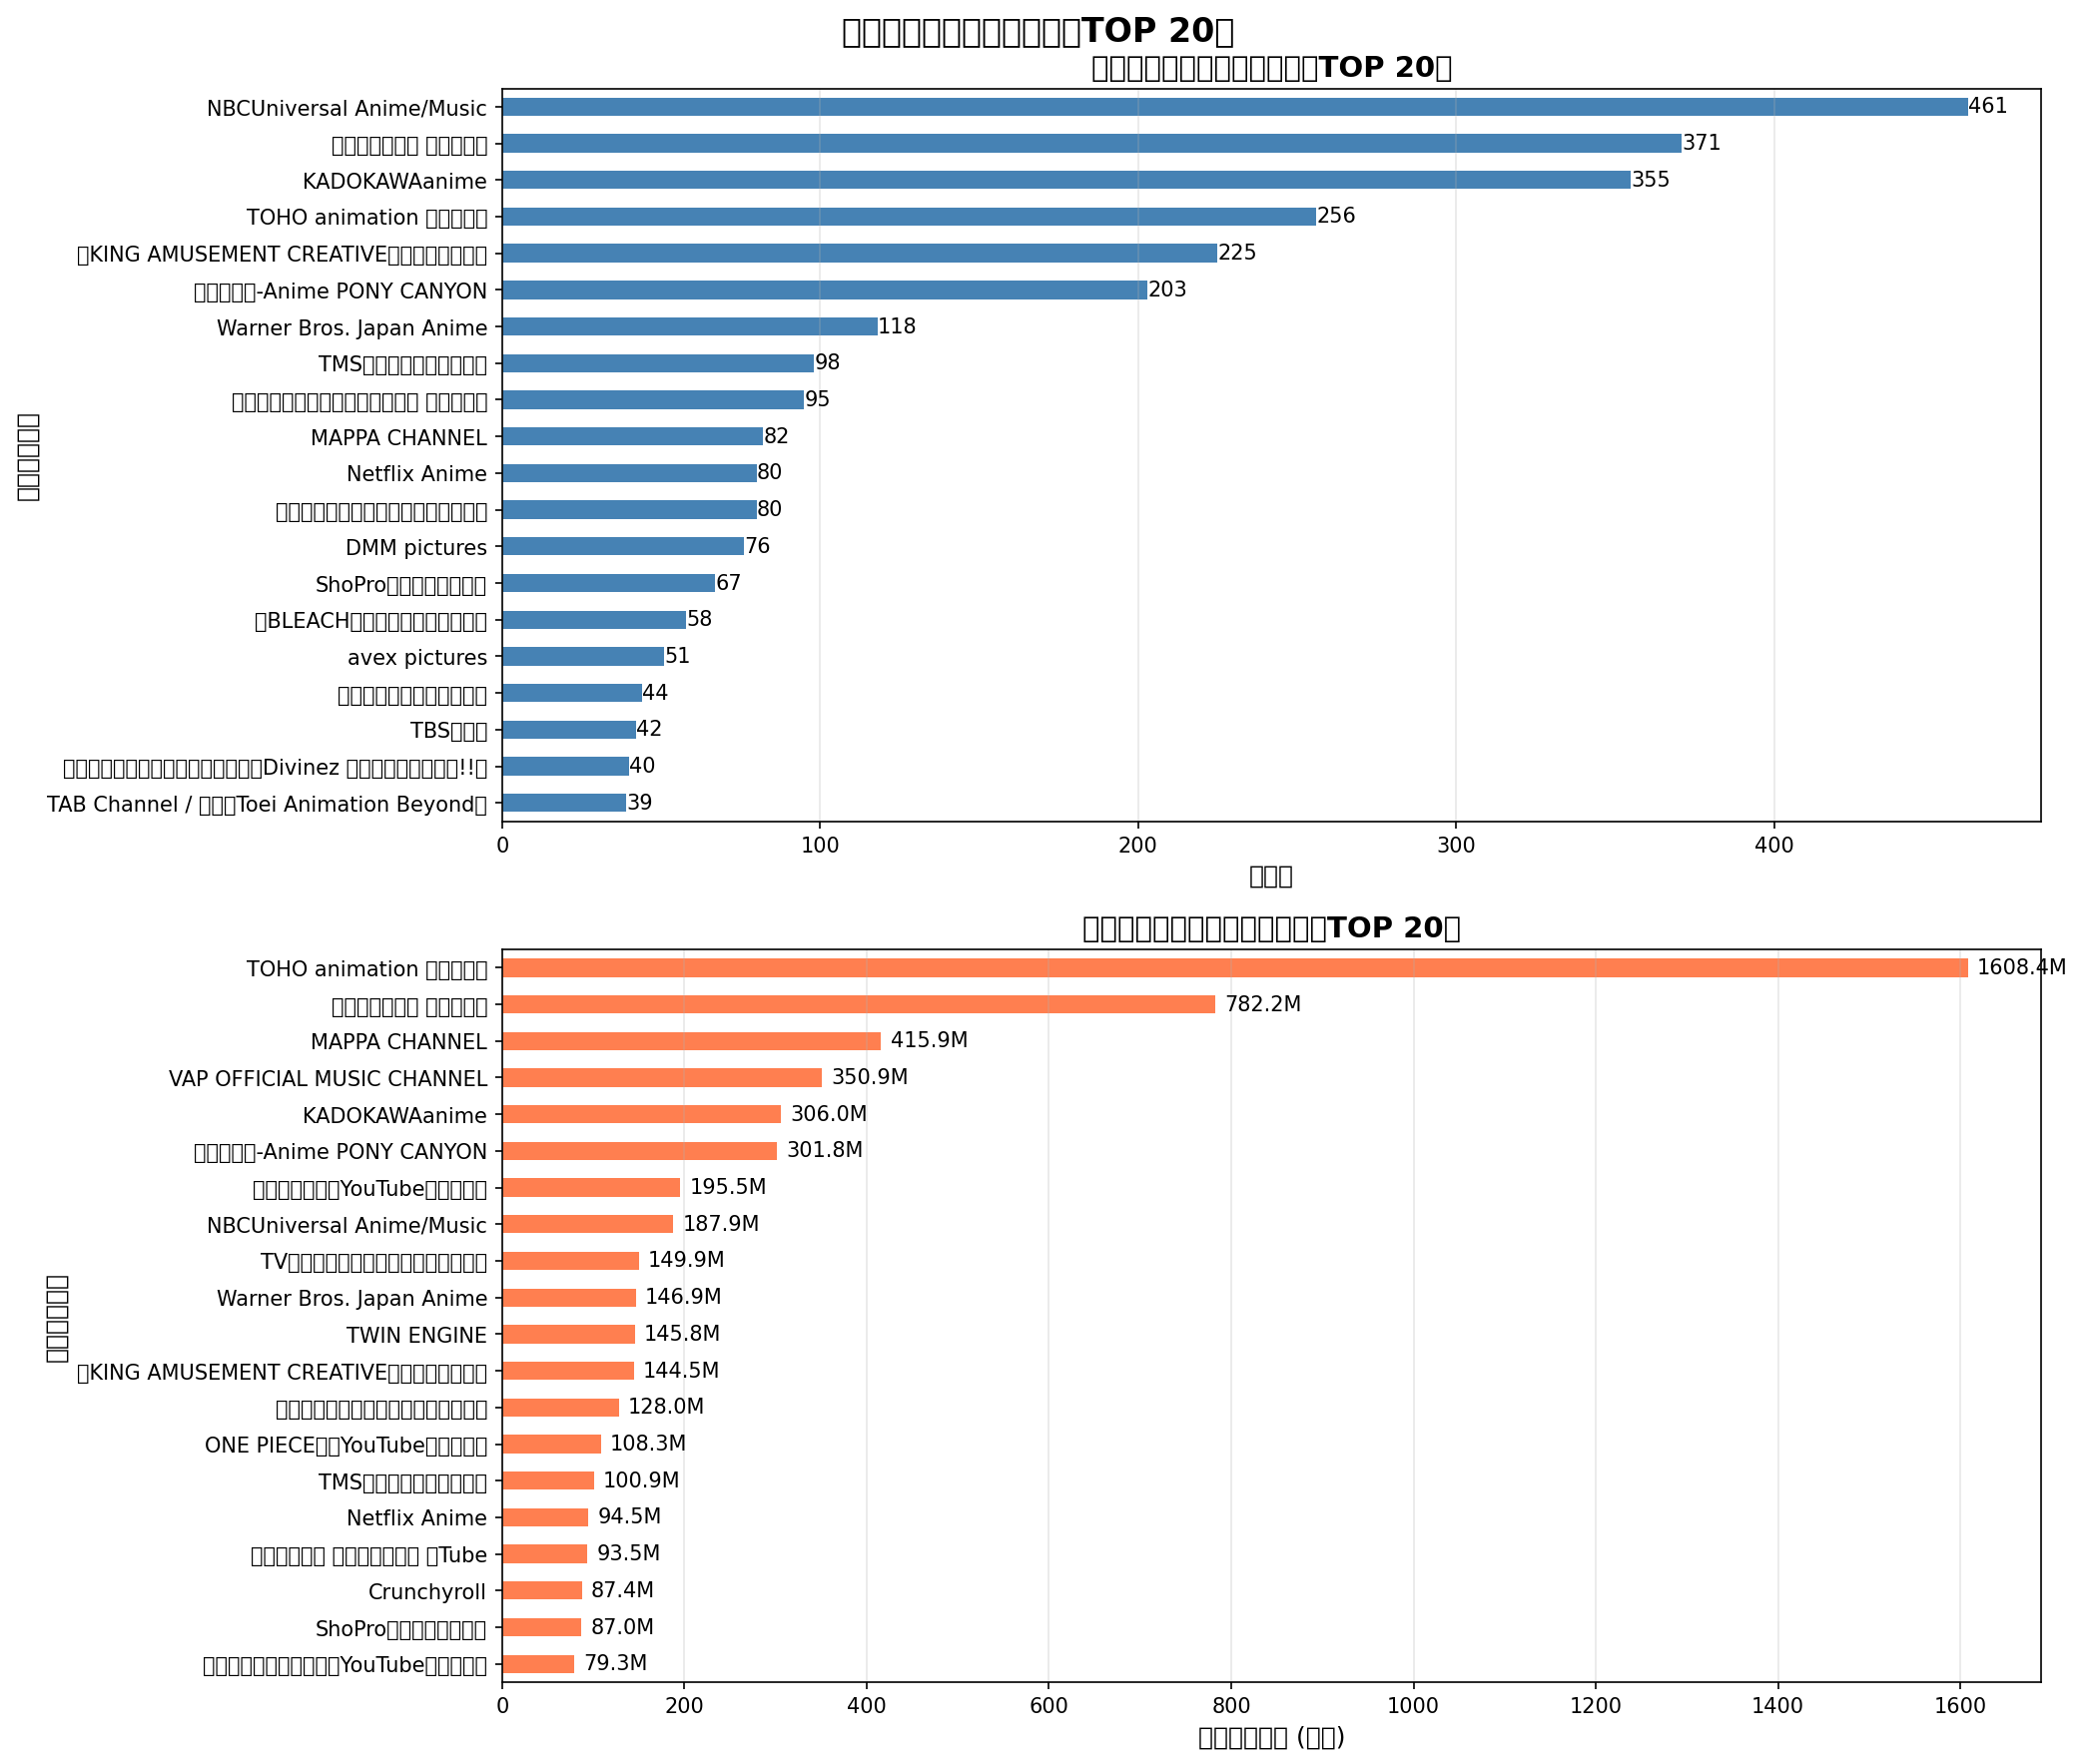
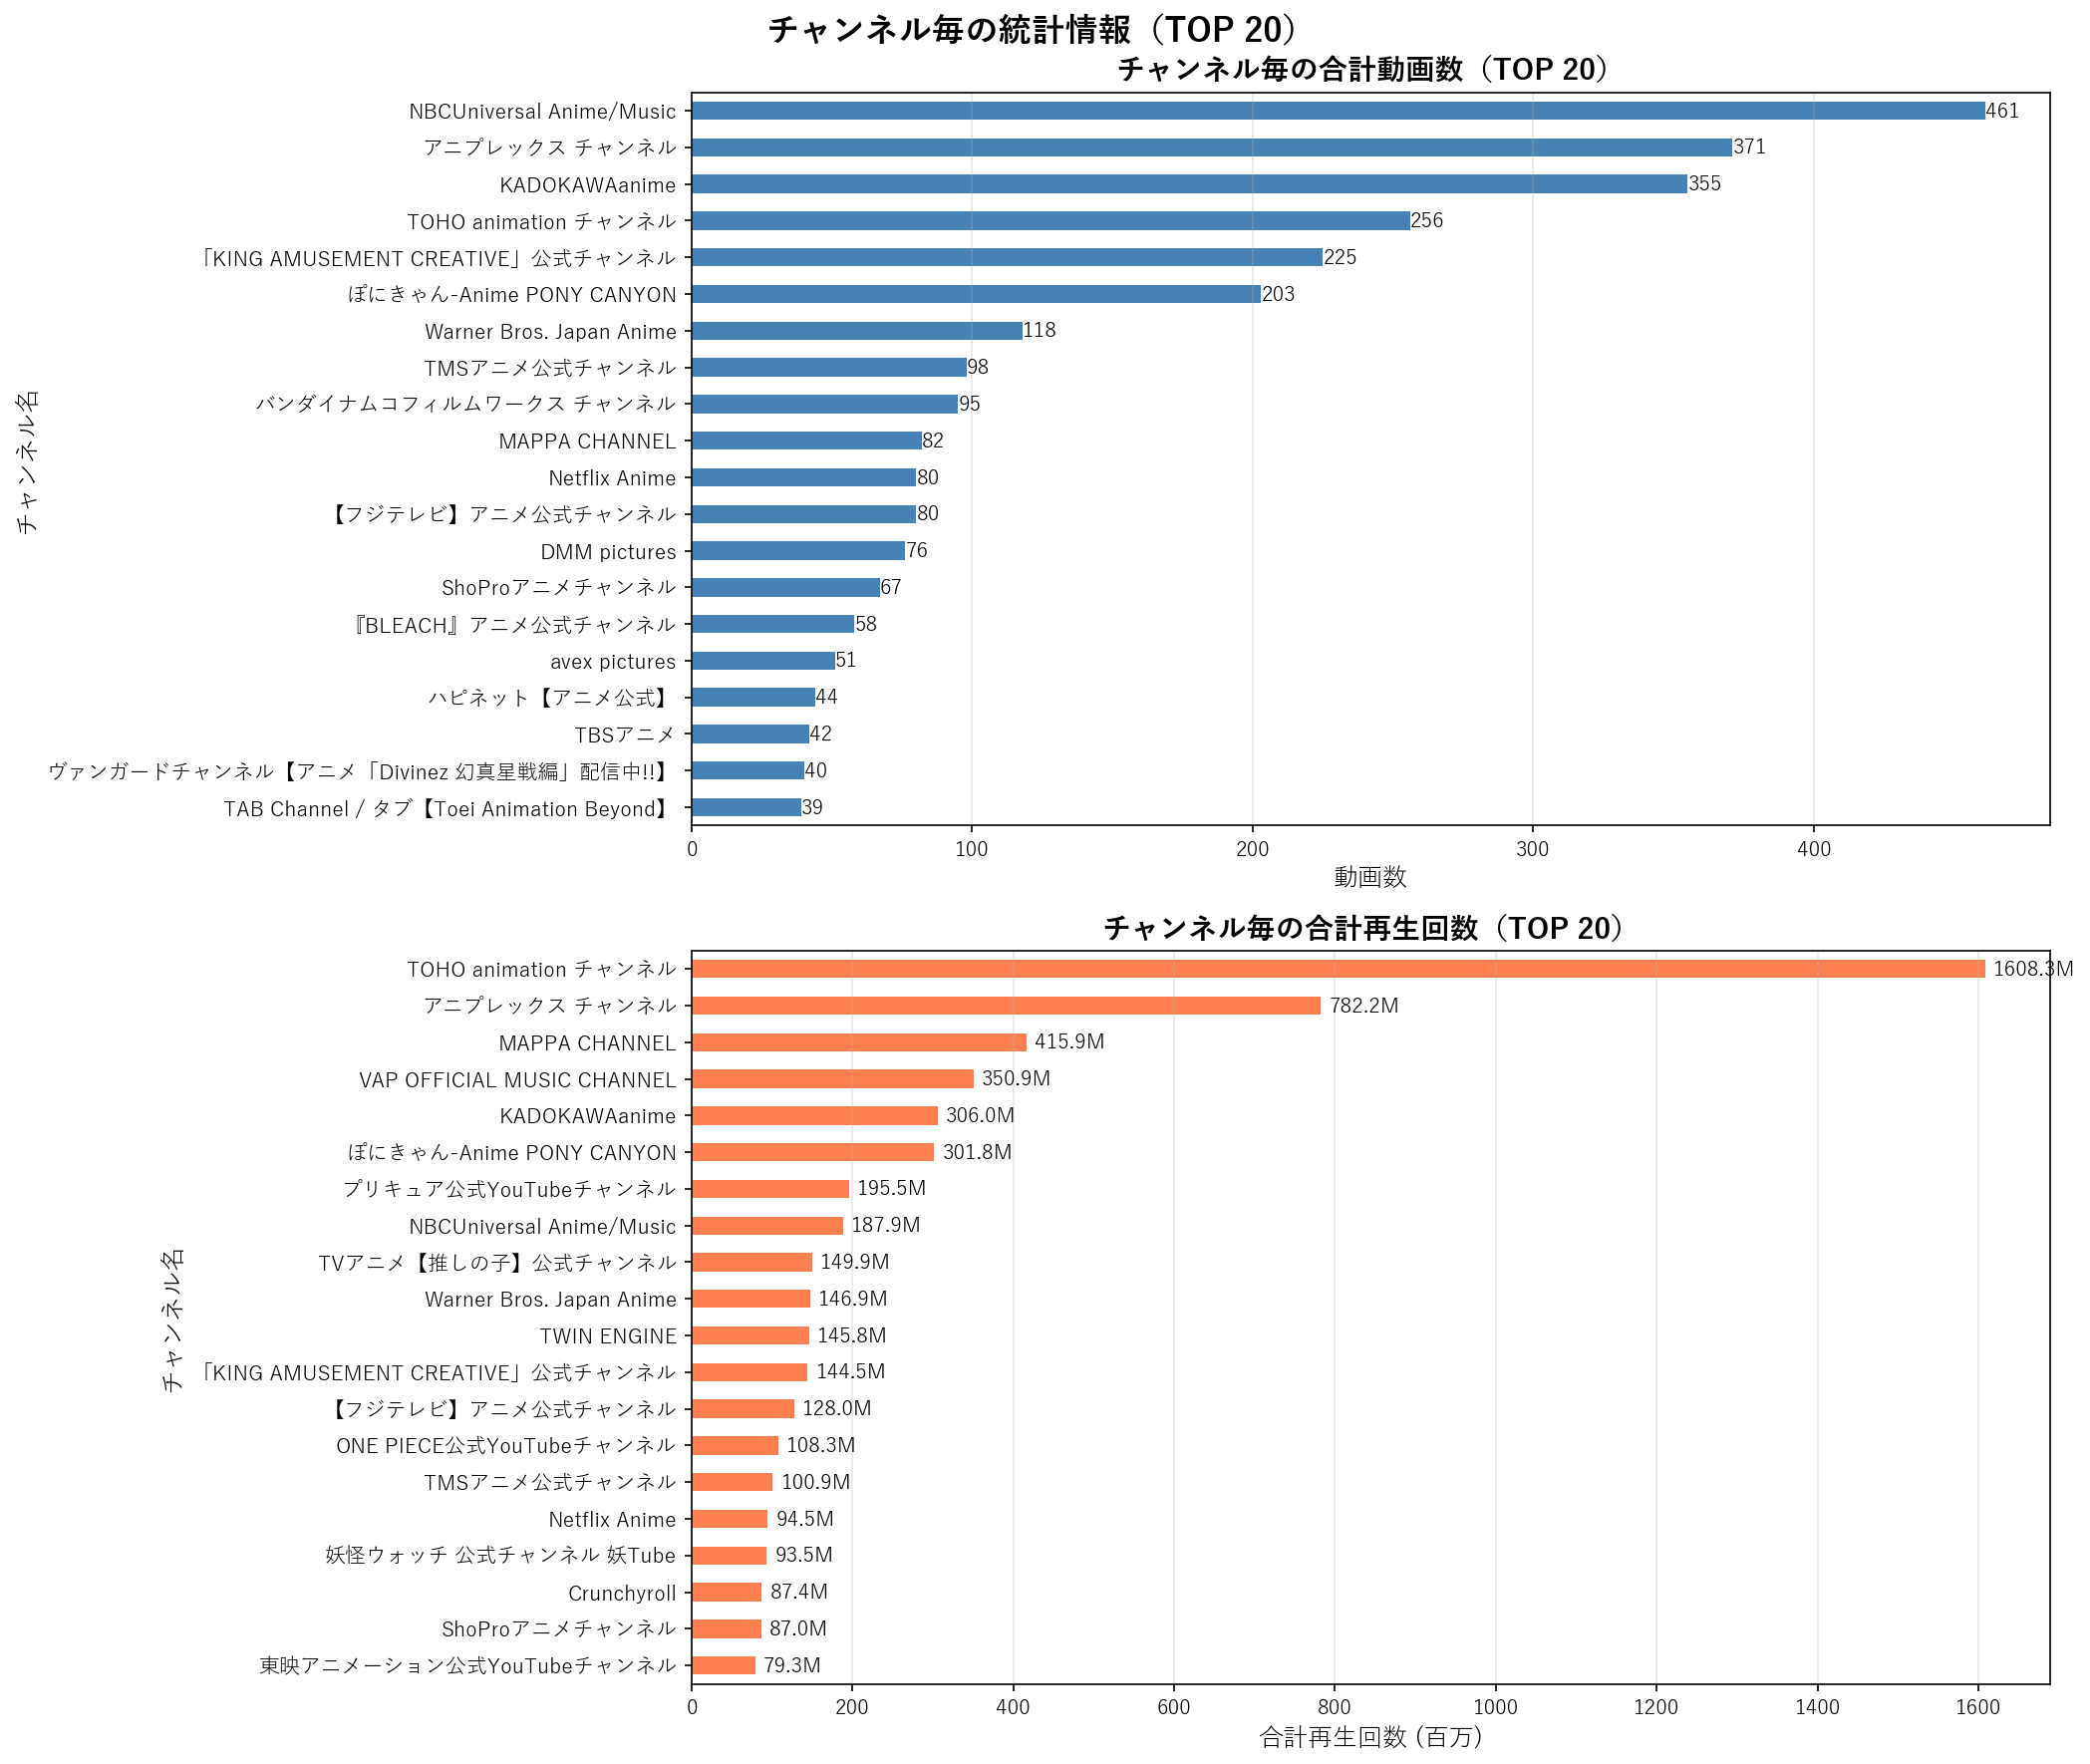
テスト実行＆README更新

diff --git a/README.md b/README.md
@@ -1,4 +1,4 @@
-# AnimeInfo
+# 概要
 
 YouTubeの公式アニメOP/ED再生リストから動画情報を自動取得し、CSVに一元管理するツールです。
 
@@ -294,85 +294,6 @@ ERROR - YouTube APIキーが設定されていません
    - Google Cloud Console でAPI使用状況を確認
 
 ---
-
-## ライセンス
-
-MIT License
-
-以下を追加（毎日午前2時に実行）：
-```
-0 2 * * * cd /path/to/AnimeInfo && YOUTUBE_API_KEY=YOUR_KEY python fetch_playlist.py
-```
-
-Windows（タスクスケジューラー）で定期実行する場合：
-
-1. タスクスケジューラーを起動
-2. 基本タスクを作成
-3. トリガー：実行頻度を設定（例：毎日午前2時）
-4. 操作：以下を設定
-   - プログラム：`python.exe`
-   - 引数：`fetch_playlist.py`
-   - 開始位置：`C:\path\to\AnimeInfo`
-   - 環境変数：`YOUTUBE_API_KEY` を設定
-
-Windows で仮想環境を使う場合の推奨設定：
-
-- プログラム：`C:\path\to\AnimeInfo\.venv\Scripts\python.exe`
-- 引数：`fetch_playlist.py`
-- 開始位置：`C:\path\to\AnimeInfo`
-
-あるいは仮想環境の有効化と実行を含むバッチファイル（例 `run_fetch.bat`）を作成し、タスクでそのバッチを呼び出す方法もあります：
-
-```bat
-@echo off
-cd /d C:\path\to\AnimeInfo
-call .venv\Scripts\activate.bat
-set YOUTUBE_API_KEY=YOUR_API_KEY_HERE
-python fetch_playlist.py
-```
-
-## 出力ファイル
-
-実行後、`data/anime_op_ed.csv` が生成されます。
-
-CSVの列：
-- `video_id`: YouTube動画ID
-- `title`: 動画タイトル
-- `description`: 説明文
-- `published_at`: 公開日時（ISO 8601形式）
-- `channel_name`: チャンネル名
-- `view_count`: 再生回数
-
-## トラブルシューティング
-
-### 「YouTube APIキーが設定されていません」エラー
-
-環境変数 `YOUTUBE_API_KEY` が設定されているか確認してください。
-
-**ローカル実行時：**
-- `.env` ファイルに `YOUTUBE_API_KEY=YOUR_KEY` が記載されているか確認
-- または、環境変数を直接設定して実行
-
-**GitHub Actions 実行時：**
-- リポジトリの **Settings** > **Secrets and variables** > **Actions** から `YOUTUBE_API_KEY` が設定されているか確認
-
-### 「再生リストが見つかりません」エラー
-
-再生リストIDが正しいか確認してください。YouTube再生リストのURLから確認できます。
-```
-https://www.youtube.com/playlist?list=PLarZd9ydotojcNKocdU95YFqooKnF-w_p
-                                           ↑ この部分がplaylist_id
-```
-
-### YouTubeデータAPIクォータエラー
-
-YouTubeデータAPIは無料で1日あたり10,000ユニットのクォータが付与されます。このエラーが発生した場合は、翌日までお待ちください。
-
-### 新規動画が検出されない
-
-- 再生リストに新しい動画が追加されているか確認
-- `data/anime_op_ed.csv` ファイルが存在し、正しくロードされているか確認
-- 既存データとの重複チェックが正しく機能しているか確認
 
 ## ライセンス
 